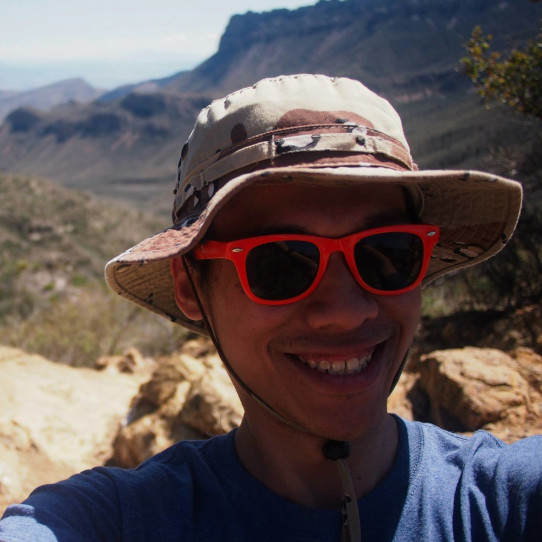
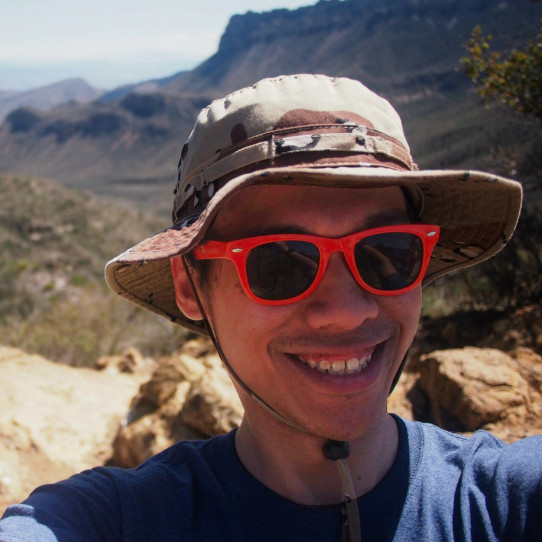
Tweak profile picture and page UI
- Selectively brightened my face on the profile picture
 - Changed the left-right split from 40-60 to golden ratio
 - Make the left and right panel have consistent margins / paddings
 - Tidy formatting of custom.css

Changed region(s): [[0.2952, 0.3247, 0.8266, 0.9446], [0.7085, 0.4723, 0.738, 0.5018]]

diff --git a/assets/css/custom.css b/assets/css/custom.css
@@ -1,9 +1,77 @@
+/**************
+ * LEFT PANEL *
+ **************/
+
+/* Shift left panel higher to make space for bio text */
+.sidebar .logo-title {
+    padding-top: 30%;
+}
+
+/* Give the copyright footer a background so it'll cover the bio if necessary */
+.footer {
+    background: #292a2d;
+}
+
+/* Add horizontal padding for bio text */
+.logo-title {
+    padding-left: 1em;
+    padding-right: 1em;
+}
+
+/* Change split percentage to be based on golden ratio */
+.sidebar {
+    width: 38.19%;
+}
+
+
+/***************
+ * RIGHT PANEL *
+ ***************/
+
+/* Change split percentage to be based on golden ratio */
+.page-top, .content {
+    width: 61.01%;
+}
+
+/* Horizontal margin for posts */
+.post {
+    margin: 1em;
+}
+.page-top > .nav {
+    padding-left: 1em;
+    padding-right: 1em;
+}
+.page-top > .themeswitcher {
+    /* 0.625em instead of 1em like the other things around here  because the 
+       font-size here was changed in the default css. */
+    padding-right: 0.625em;
+}
+.list-with-title {
+    margin-left: 1em;
+    margin-right: 1em;
+}
+
+
+/*************
+ * Scrollbar *
+ *************/
+
+/* Use thin scrollbar for Firefox */
+html {
+    scrollbar-width: thin;
+}
+
+/* Use thin scrollbar for Chrome */
+::-webkit-scrollbar {
+    width: 7px;
+}
+
 /* Hidding the annoying horizontal scroll in Chrome */
 body {
     overflow-x: hidden;
 }
 
-/* Setting scrollbar colors for Chrome  */
+/* Setting scrollbar colors for Chrome to match Firefox */
 [data-theme='dark'] ::-webkit-scrollbar {
     background-color: #353535;
 }
@@ -17,7 +85,11 @@ body {
     background-color: #EFEFEF;
 }
 
-/* Tweaks on Posts Page */
+
+/**************
+ * POSTS PAGE *
+ **************/
+
 .yj-post .post-content .post-body h2 {
     padding-top: 1em;
     font-size: 1.4em;
@@ -36,7 +108,11 @@ body {
     font-size: 13px;
 }
 
-/* Tweaks on Reading Logs Page */
+
+/*********************
+ * READING LOGS PAGE *
+ *********************/
+
 .yj-reading-log h2 {
     font-style: italic;
 }
